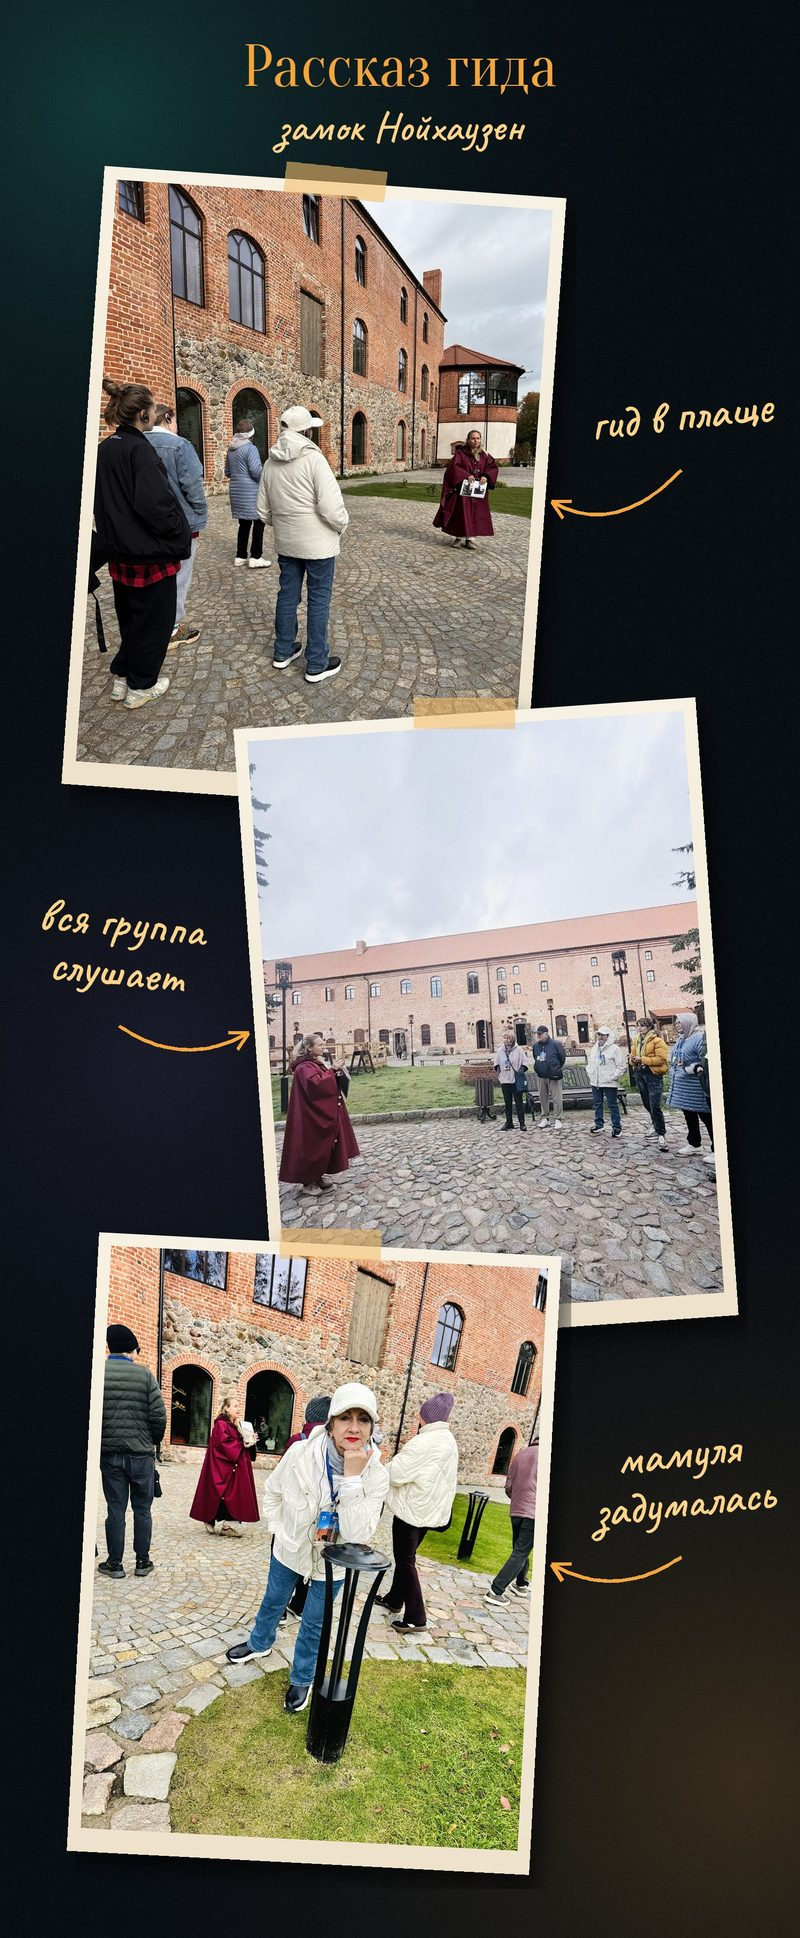
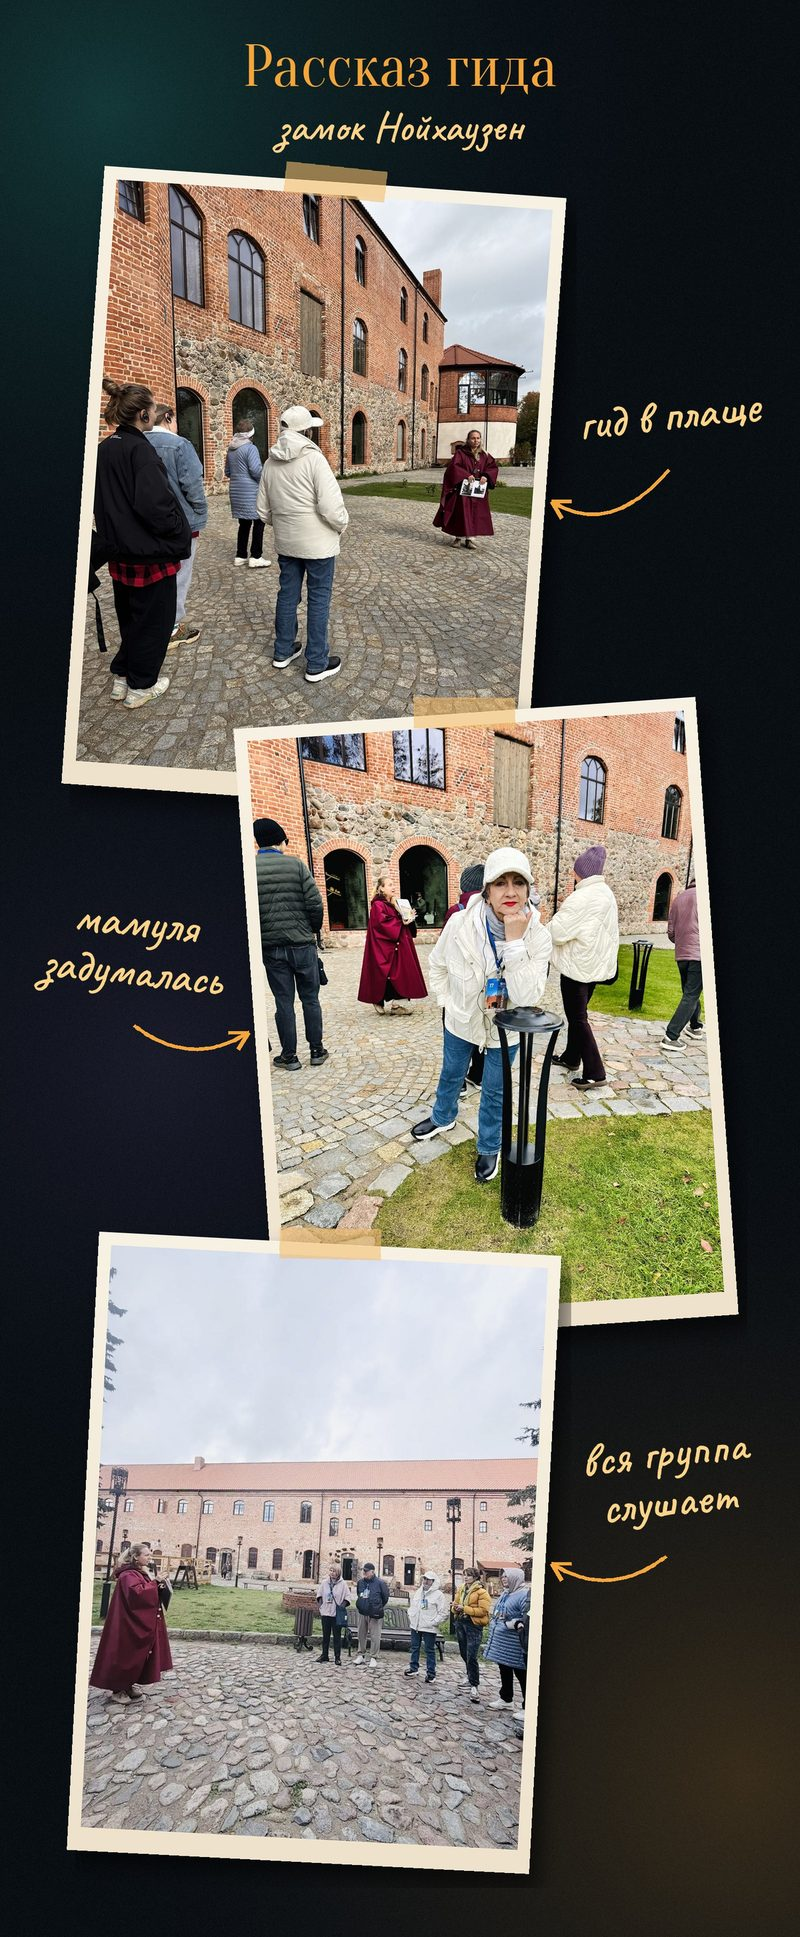
Альбом «Калининград»: страница «Рассказ гида» — мамуля в центре
По просьбе: сверху «гид в плаще», в центре «мамуля задумалась», снизу «вся группа слушает».

Claude-Session: https://claude.ai/code/session_01BUmNQ2Kk9fTi5P6tnA3gYJ

diff --git a/kaliningrad/album/index.html b/kaliningrad/album/index.html
@@ -684,7 +684,7 @@ body.picking .wrap{padding-bottom:calc(var(--nav-h) + 230px + env(safe-area-inse
  {"id": "d2-86", "day": 2, "src": "photos/d2-86.jpg?v=2", "thumb": "photos/t/d2-86.jpg?v=2", "w": 1200, "h": 2906, "place": "neuh", "title": "Ворота замка", "date": "2026-10-12", "collage": true},
  {"id": "d2-50", "day": 2, "type": "video", "src": "photos/d2-50.mp4?v=2", "poster": "photos/d2-50.jpg", "thumb": "photos/t/d2-50.jpg", "w": 720, "h": 1280, "dur": 5.5, "muted": true, "place": "neuh", "title": "Надвратная башня снизу вверх", "date": "2026-10-12"},
  {"id": "d2-23", "day": 2, "src": "photos/d2-23.jpg", "thumb": "photos/t/d2-23.jpg", "w": 2000, "h": 452, "place": "neuh", "title": "Панорама двора замка", "date": "2026-10-12"},
- {"id": "d2-87", "day": 2, "src": "photos/d2-87.jpg", "thumb": "photos/t/d2-87.jpg", "w": 1200, "h": 2906, "place": "neuh", "title": "Рассказ гида", "date": "2026-10-12", "collage": true},
+ {"id": "d2-87", "day": 2, "src": "photos/d2-87.jpg?v=2", "thumb": "photos/t/d2-87.jpg?v=2", "w": 1200, "h": 2906, "place": "neuh", "title": "Рассказ гида", "date": "2026-10-12", "collage": true},
  {"id": "d2-88", "day": 2, "src": "photos/d2-88.jpg", "thumb": "photos/t/d2-88.jpg", "w": 1200, "h": 2906, "place": "neuh", "title": "Уголки замка", "date": "2026-10-12", "collage": true},
  {"id": "d2-89", "day": 2, "src": "photos/d2-89.jpg", "thumb": "photos/t/d2-89.jpg", "w": 1200, "h": 2906, "place": "neuh", "title": "Таверна «Орден гуся»", "date": "2026-10-12", "collage": true},
  {"id": "d2-90", "day": 2, "src": "photos/d2-90.jpg", "thumb": "photos/t/d2-90.jpg", "w": 1200, "h": 2906, "place": "neuh", "title": "Осень в замке", "date": "2026-10-12", "collage": true},
